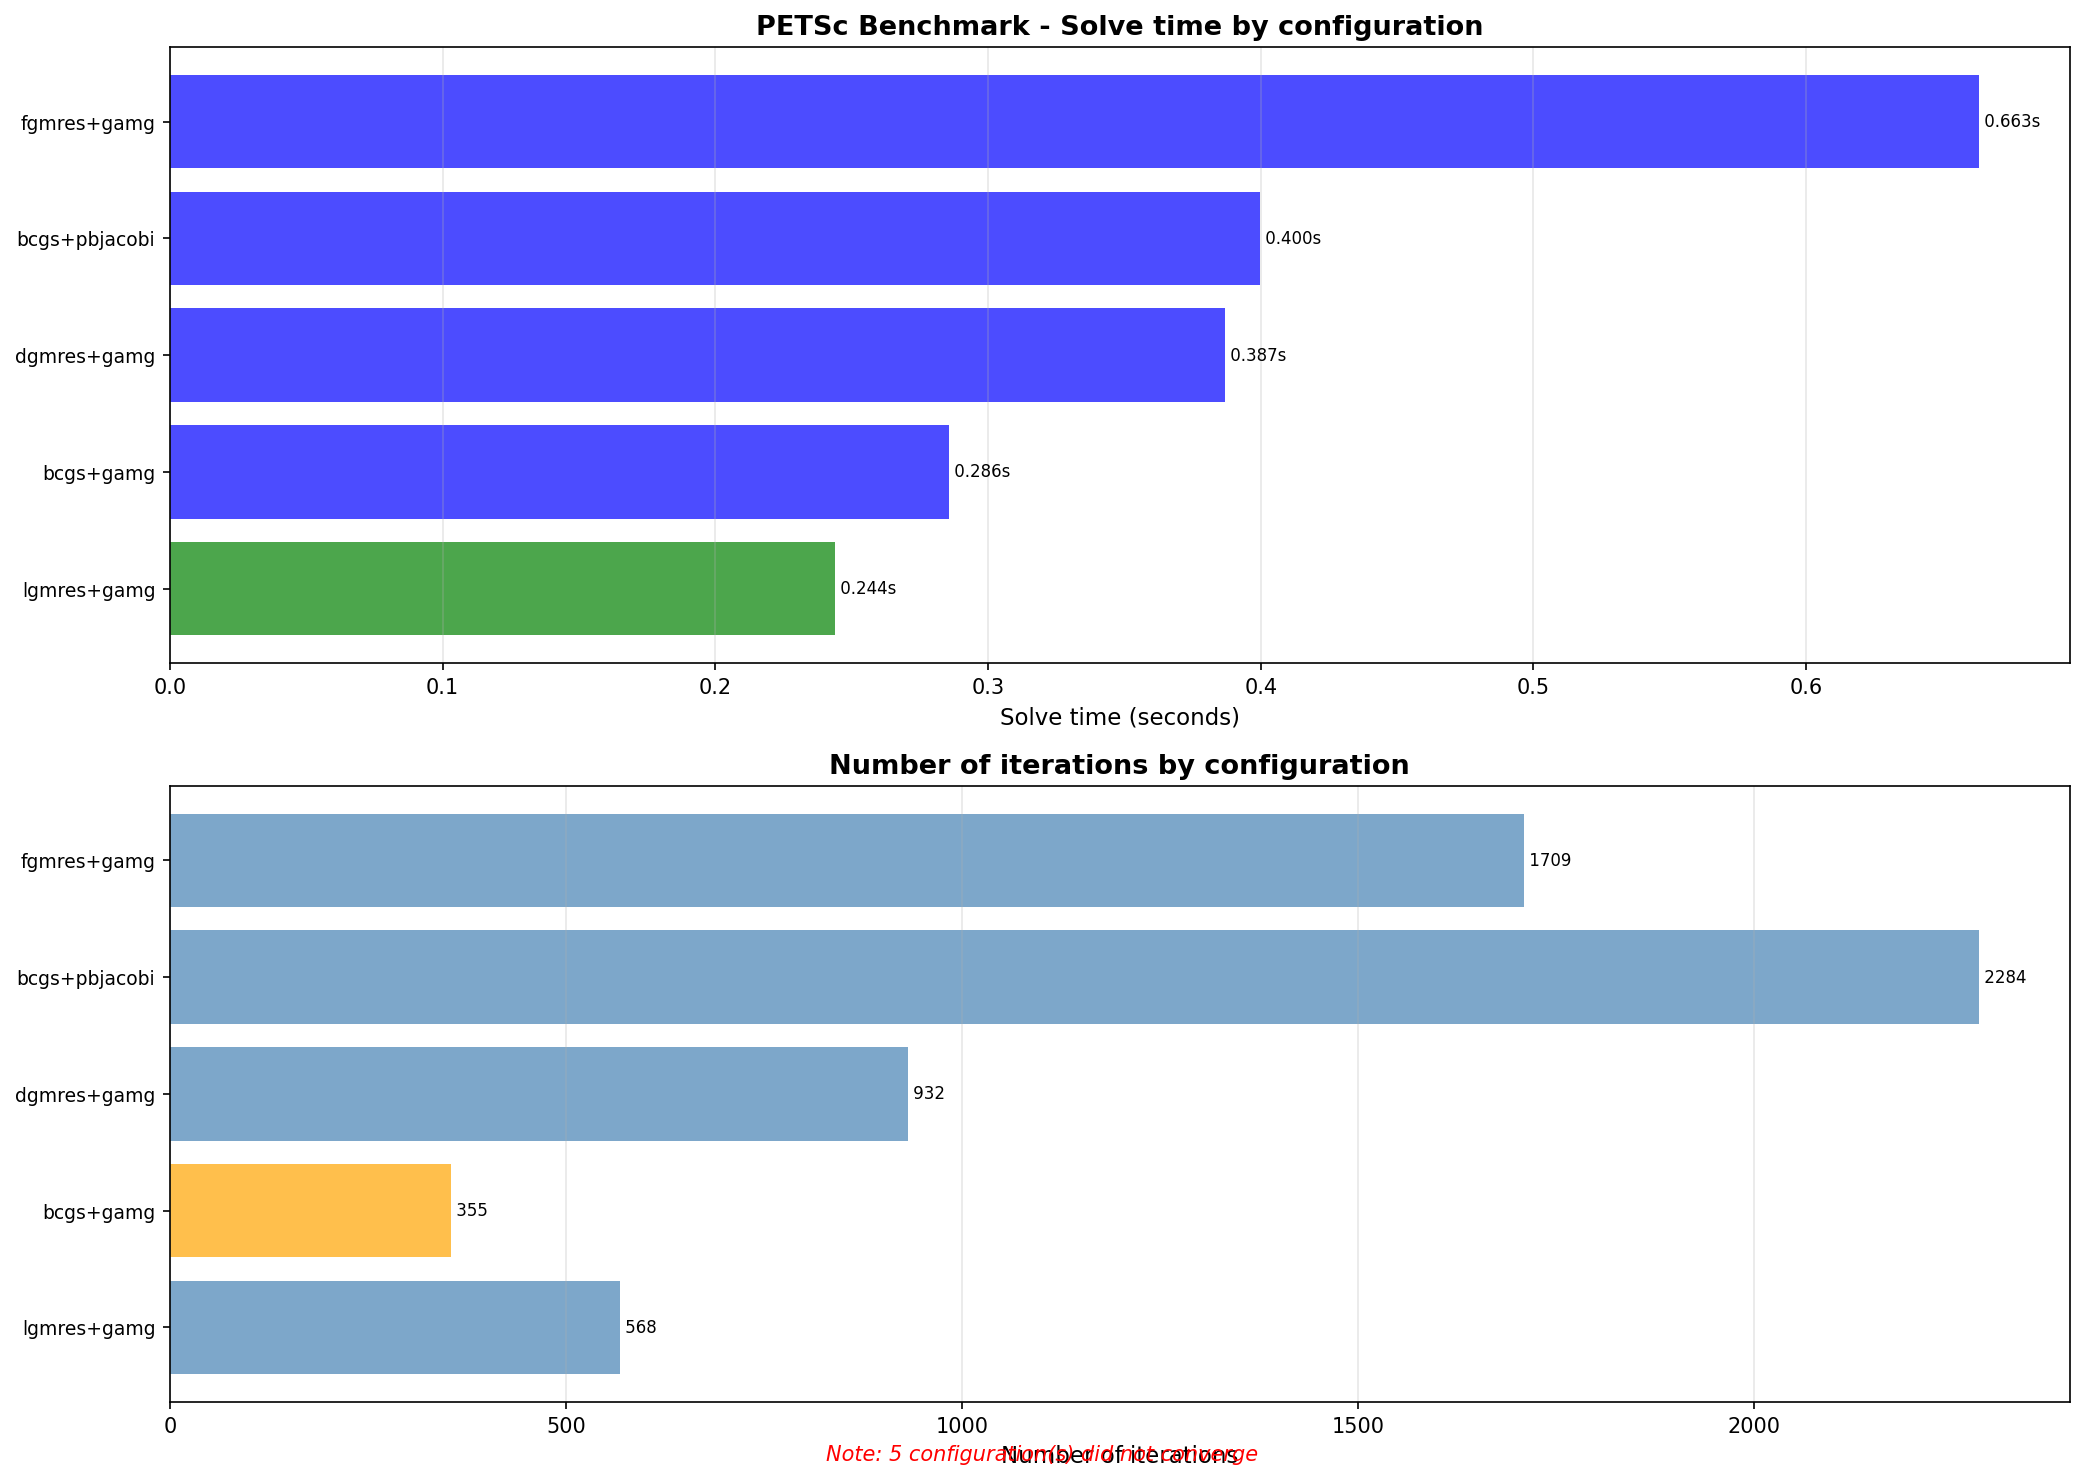
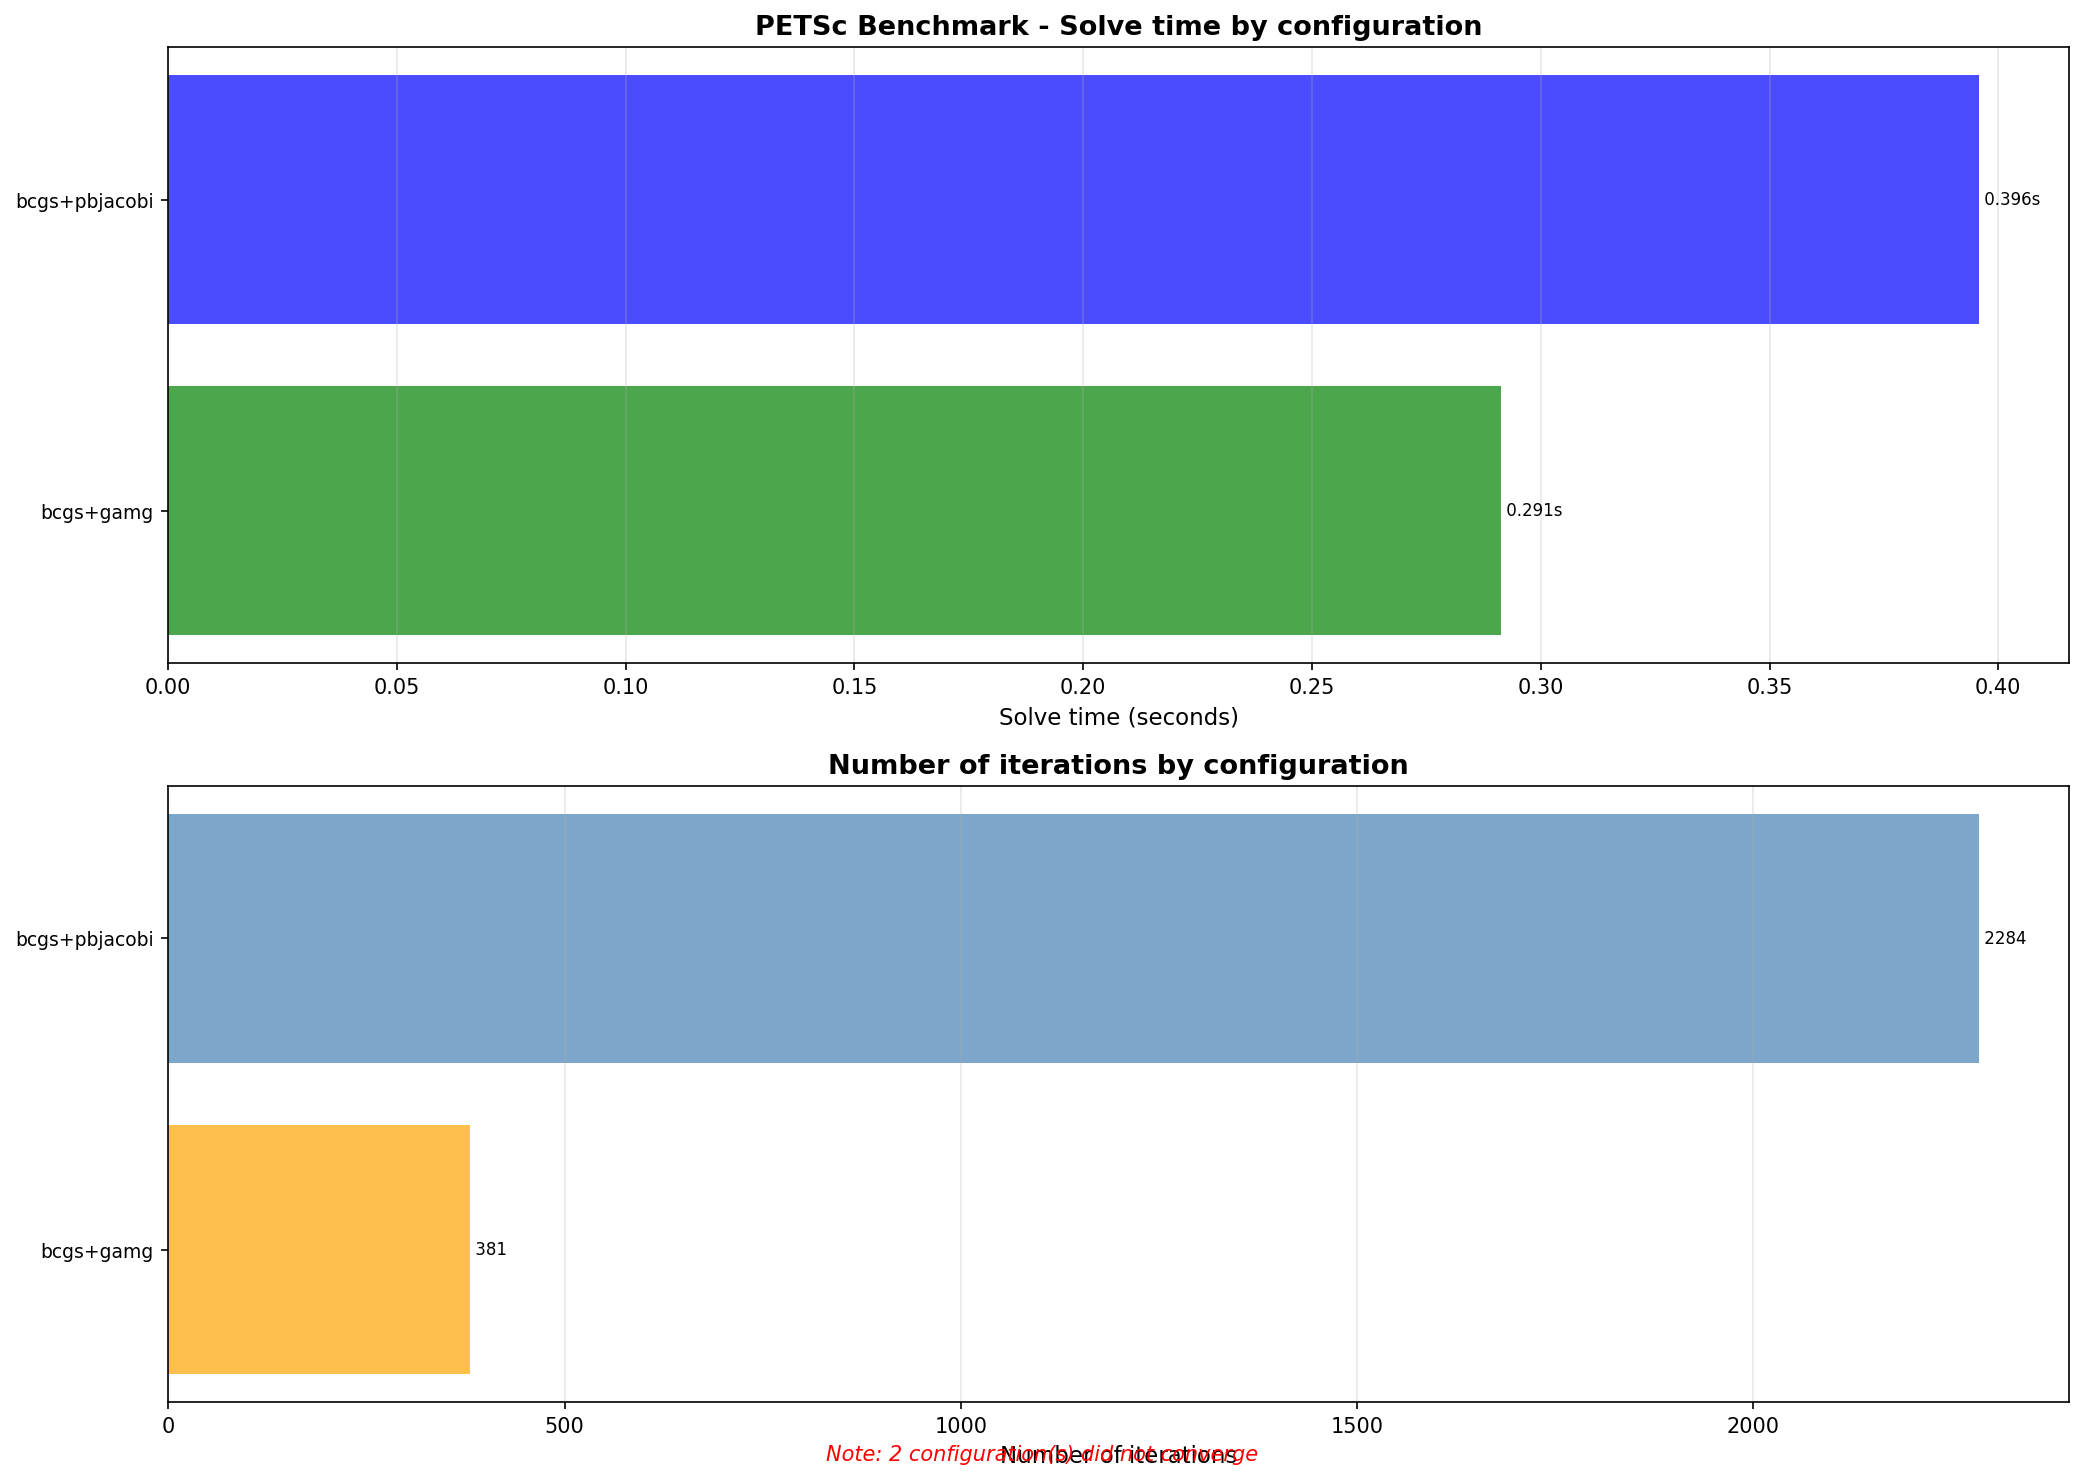
add json config file

diff --git a/benchmark_petsc.py b/benchmark_petsc.py
@@ -9,7 +9,37 @@ import itertools
 from petsc4py import PETSc
 import numpy as np
 import matplotlib.pyplot as plt
+import json
 
+def load_options_from_json(path):
+    """Load solver options from a JSON file and return a list of configuration dicts.
+
+    Expected JSON format, e.g.:
+
+    {
+      "ksp_rtol": [1e-13],
+      "pc_type": ["gamg", "pbjacobi"],
+      "ksp_type": ["gmres", "bcgs"],
+      "use_initial_guess": [true]
+    }
+    """
+    with open(path, "r") as f:
+        opts = json.load(f)
+
+    required_keys = ["ksp_rtol", "pc_type", "ksp_type", "use_initial_guess"]
+    for k in required_keys:
+        if k not in opts:
+            raise ValueError(f"Missing required key '{k}' in config file: {path}")
+
+    keys = list(opts.keys())
+    lists = [opts[k] for k in keys]
+
+    config_list = []
+    for combo in itertools.product(*lists):
+        entry = {key: value for key, value in zip(keys, combo)}
+        config_list.append(entry)
+
+    return config_list
 
 def load_petsc_data(mat_file, rhs_file, guess_file=None, ref_file=None, use_gpu=False):
     """Load matrix, RHS, initial guess, and optional reference solution from PETSc binary files."""
@@ -127,7 +157,8 @@ def solve_with_options(mat, rhs, initial_guess, ref_solution,
     }
 
 
-def run_benchmarks(mat_file, rhs_file, guess_file=None, ref_file=None, use_gpu=False):
+def run_benchmarks(mat_file, rhs_file, guess_file=None, ref_file=None,
+                   use_gpu=False, config_file=None):
     """Run all benchmarks."""
 
     # Load data
@@ -158,27 +189,38 @@ def run_benchmarks(mat_file, rhs_file, guess_file=None, ref_file=None, use_gpu=F
 
     PETSc.Sys.Print("")
 
-    # Options to test
-    options = {
-        "ksp_rtol": [1e-13],
-        "pc_type": ["gamg", "pbjacobi"],
-        "ksp_type": ["gmres", "bcgs", "fgmres", "lgmres", "dgmres"],
-        "use_initial_guess": [True],
-    }
-
-    # Generate all combinations
-    keys = list(options.keys())
-    combinations = list(itertools.product(*[options[k] for k in keys]))
+    # Load solver configurations
+    if config_file is not None:
+        PETSc.Sys.Print(f"Loading solver options from JSON: {config_file}")
+        combinations = load_options_from_json(config_file)
+        use_config_file = True
+    else:
+        PETSc.Sys.Print("Using built-in default solver options")
+        options = {
+            "ksp_rtol": [1e-13],
+            "pc_type": ["gamg", "pbjacobi"],
+            "ksp_type": ["gmres", "bcgs", "fgmres", "lgmres", "dgmres"],
+            "use_initial_guess": [True],
+        }
+        keys = list(options.keys())
+        combinations = list(itertools.product(*[options[k] for k in keys]))
+        use_config_file = False
 
     results = []
 
-    PETSc.Sys.Print(f"\nTesting {len(combinations)} combinations...\n")
+    PETSc.Sys.Print(f"\nTesting {len(combinations)} configurations...\n")
 
     for i, combo in enumerate(combinations):
-        rtol = combo[0]
-        pc_type = combo[1]
-        ksp_type = combo[2]
-        use_guess = combo[3]
+        if use_config_file:
+            rtol = combo["ksp_rtol"]
+            pc_type = combo["pc_type"]
+            ksp_type = combo["ksp_type"]
+            use_guess = combo["use_initial_guess"]
+        else:
+            rtol = combo[0]
+            pc_type = combo[1]
+            ksp_type = combo[2]
+            use_guess = combo[3]
 
         label = f"{ksp_type}+{pc_type}"
         PETSc.Sys.Print(f"[{i+1}/{len(combinations)}] Test: {label}")
@@ -215,7 +257,6 @@ def run_benchmarks(mat_file, rhs_file, guess_file=None, ref_file=None, use_gpu=F
         ref_sol.destroy()
 
     return results
-
 
 def plot_results(results, output_file='results/benchmark_results.png'):
     """Create a plot of the results."""
@@ -294,6 +335,7 @@ if __name__ == "__main__":
     guess_file = None
     ref_file = None
     use_gpu = False
+    config_file = None
 
     # Parse arguments manually
     i = 1
@@ -316,6 +358,10 @@ if __name__ == "__main__":
             ref_file = sys.argv[i + 1]
             i += 1
 
+        elif arg == "--config" and i + 1 < len(sys.argv):
+            config_file = sys.argv[i + 1]
+            i += 1
+            
         elif arg == "--gpu":
             use_gpu = True
 
@@ -327,11 +373,15 @@ if __name__ == "__main__":
     # Sanity checks
     if mat_file is None or rhs_file is None:
         print("Usage: python benchmark_petsc.py --mat mat.dat --rhs rhs.dat "
-              "[--guess guess.dat] [--ref sol.dat] [--gpu]")
+              "[--guess guess.dat] [--ref sol.dat] [--config options.json] [--gpu]")
         sys.exit(1)
 
     # Run benchmark
-    results = run_benchmarks(mat_file, rhs_file, guess_file, ref_file, use_gpu)
+    results = run_benchmarks(
+        mat_file, rhs_file, guess_file, ref_file,
+        use_gpu=use_gpu,
+        config_file=config_file
+    )
 
     # Plot (rank 0 only)
     if PETSc.COMM_WORLD.getRank() == 0:

diff --git a/README.md b/README.md
@@ -1,3 +1,4 @@
+# petsc-python-miniapp
 
 A small Python mini-application for testing PETSc solvers, built with CUDA, MPI, and petsc4py support.  
 This README provides all the steps needed to set up the environment, install PETSc, prepare input data, and run the benchmark on the target HPC system.
@@ -73,11 +74,26 @@ All PETSc binary input files should be placed in the `data/` directory:
 
 ```
 data/
- ├── mat.dat      # PETSc matrix
- ├── rhs.dat      # RHS vector
- ├── guess.dat    # optional initial guess
- └── sol.dat      # reference solution (from Fortran code)
+ ├── mat.dat        # PETSc matrix
+ ├── rhs.dat        # RHS vector
+ ├── guess.dat      # optional initial guess
+ ├── sol.dat        # reference solution (from Fortran code)
+ └── options.json   # JSON file describing solver configurations
 ```
+
+Example `options.json`:
+
+```json
+{
+  "ksp_rtol": [1e-13],
+  "pc_type": ["gamg", "pbjacobi"],
+  "ksp_type": ["gmres", "bcgs"],
+  "use_initial_guess": [true]
+}
+```
+
+The code generates all combinations of these lists (Cartesian product).  
+If `--config` is not provided, a built-in default set of options is used.
 
 ---
 
@@ -89,7 +105,7 @@ Submit the job with:
 sbatch submission_script.sh
 ```
 
-The script internally runs:
+The script internally runs something like:
 
 ```bash
 srun python3 benchmark_petsc.py \
@@ -97,6 +113,7 @@ srun python3 benchmark_petsc.py \
     --rhs data/rhs.dat \
     --guess data/guess.dat \
     --ref data/sol.dat \
+    --config data/options.json \
     --gpu
 ```
 
@@ -122,6 +139,17 @@ python3 benchmark_petsc.py --mat data/mat.dat --rhs data/rhs.dat --guess data/gu
 python3 benchmark_petsc.py --mat data/mat.dat --rhs data/rhs.dat --ref data/sol.dat
 ```
 
+### With JSON config file
+
+```bash
+python3 benchmark_petsc.py \
+    --mat data/mat.dat \
+    --rhs data/rhs.dat \
+    --guess data/guess.dat \
+    --ref data/sol.dat \
+    --config data/options.json
+```
+
 ### GPU mode (CUDA Vec + AIJcuSPARSE Mat)
 
 ```bash
@@ -130,13 +158,9 @@ python3 benchmark_petsc.py \
     --rhs data/rhs.dat \
     --guess data/guess.dat \
     --ref data/sol.dat \
+    --config data/options.json \
     --gpu
 ```
-
-GPU mode internally sets:
-
-- `mat_type = aijcusparse`
-- `vec_type = cuda`
 
 ---
 
@@ -159,8 +183,6 @@ The plot includes:
 ---
 
 ## Illustration
-
-Below is an example of the plot produced by the miniapp:
 
 ![Example PETSc benchmark results](results/benchmark_results.png)
 
